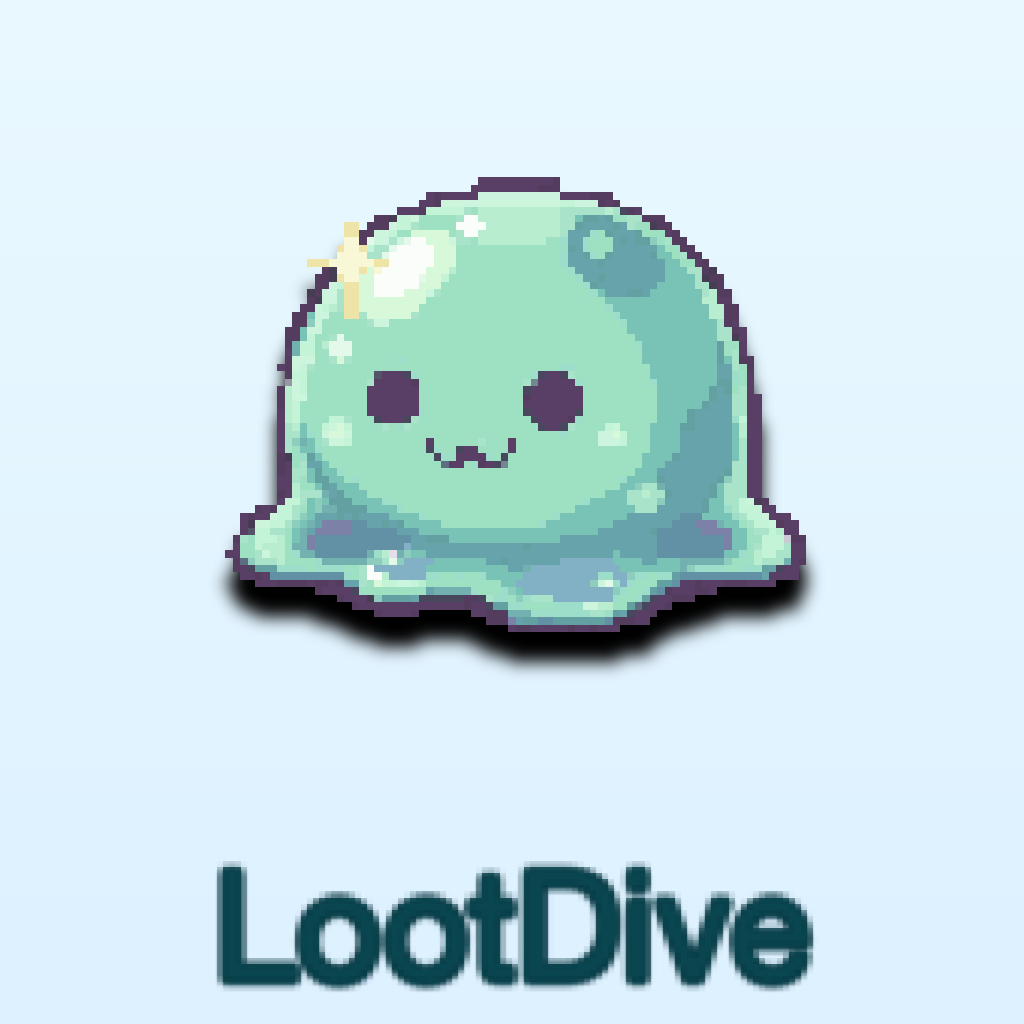
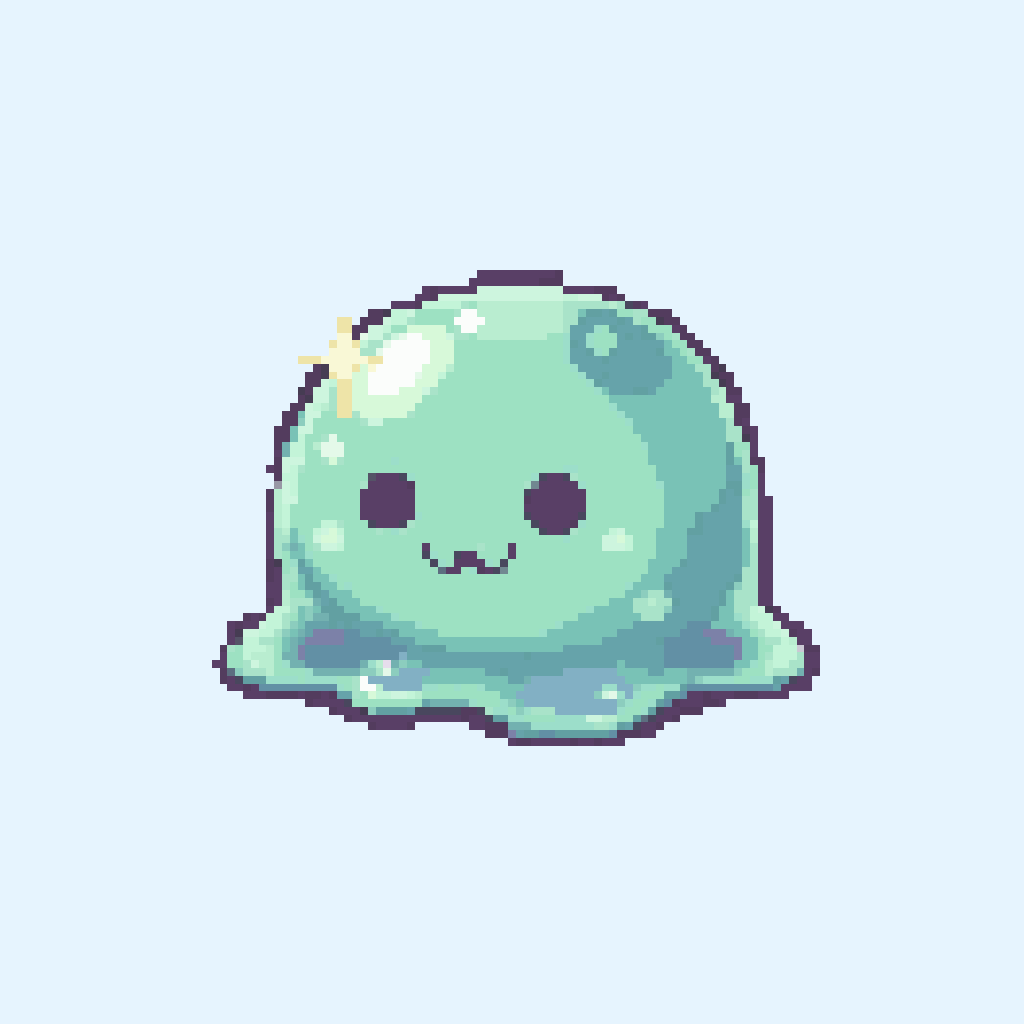
chore: App Storeリリース用クリエイティブを追加
- app-store-metadata.md: メタデータ一覧（アプリ名、説明文、キーワード等）
- privacy-policy-ja.md: プライバシーポリシー（日本語）
- privacy-policy-en.md: プライバシーポリシー（英語）
- アプリアイコンをテキストなしのスライムのみに変更

Changed region(s): [[0.1875, 0.1562, 0.8125, 0.75], [0.1875, 0.8438, 0.8125, 0.9688]]

diff --git a/app-store-metadata.md b/app-store-metadata.md
@@ -1,0 +1,108 @@
+# App Store メタデータ
+
+## 基本情報
+
+| 項目 | 内容 |
+|------|------|
+| アプリ名 | LootDive |
+| サブタイトル | 自動戦闘xビルド構築 |
+| プライマリカテゴリ | Games |
+| セカンダリカテゴリ | Role Playing |
+| 年齢レーティング | 9+ |
+
+---
+
+## 説明文（日本語）
+
+```
+■ ダンジョンに潜って、レア装備を集めろ！
+
+LootDiveは、戦闘は完全オート、あなたの役割は「準備」と「判断」だけのハクスラRPG。忙しい毎日でもサクサク遊べます。
+
+■ ゲームの特徴
+
+【完全自動戦闘】
+バトルはすべてオート！あなたは装備を整え、ダンジョンを選ぶだけ。あとは見守るだけでOK。
+
+【17種以上のダンジョン】
+草原から始まり、魔王城、竜の巣穴、終焉の地まで。20以上の個性豊かなダンジョンを攻略しよう。
+
+【ハクスラ要素満載】
+・ランダムMOD付き装備：同じアイテムでも性能が異なる！
+・ユニーク装備：ボス撃破で手に入る特別なアイテム
+・パッシブスキルツリー：自分だけのビルドを構築
+
+【ボス戦】
+各ダンジョンの最深部には強力なボスが待ち受ける。ゴブリンキング、ヴァンパイア、魔王、そして終焉の王…倒せるか？
+
+【エンドコンテンツ】
+・Uberボス：通常ボスの強化版。最高峰の装備をドロップ
+・異次元ラッシュ：200階の無限ダンジョン。どこまで登れる？
+
+■ こんな人におすすめ
+
+・忙しくてもRPGを楽しみたい
+・装備収集が好き
+・ビルドを考えるのが好き
+・オートバトルで効率よく遊びたい
+
+■ お問い合わせ
+
+ゲームに関するご意見・ご要望はアプリ内の設定からお送りください。
+```
+
+---
+
+## キーワード
+
+```
+ハクスラ,放置,RPG,自動戦闘,ダンジョン,装備,アイドル,レア,ボス,無料,オフライン,育成,冒険,ファンタジー
+```
+
+---
+
+## プロモーションテキスト
+
+```
+ダンジョンに潜り、レア装備を集めよう！完全オートバトルで忙しいあなたも手軽に冒険。17種以上のダンジョン、強力なボス、ランダムMOD付き装備であなただけの最強ビルドを構築せよ。
+```
+
+---
+
+## スクリーンショット構成（6枚）
+
+| 順番 | 画面 | キャッチコピー |
+|------|------|----------------|
+| 1 | 戦闘画面（ボス戦） | 見守るだけ。完全オートバトル |
+| 2 | ダンジョン選択画面 | 17種以上のダンジョン |
+| 3 | インベントリ/装備画面 | レア装備を集めて強化 |
+| 4 | スキルツリー画面 | 自分だけのビルドを構築 |
+| 5 | 戦闘画面（通常） | サクサク進むオート探索 |
+| 6 | ホーム画面 | 装備を整えて出発 |
+
+---
+
+## 必要なスクリーンショットサイズ
+
+| デバイス | サイズ | 必須 |
+|----------|--------|------|
+| iPhone 6.7インチ | 1290 x 2796 px | 必須 |
+| iPhone 6.5インチ | 1284 x 2778 px | 必須 |
+
+---
+
+## 年齢レーティング回答
+
+| 質問 | 該当 |
+|------|------|
+| 暴力的なコンテンツ | まれ/軽度 |
+| 性的/きわどいコンテンツ | なし |
+| 成人向けテーマ | なし |
+| アルコール/タバコ/薬物 | なし |
+| シミュレーション・ギャンブル | なし |
+| ホラー/恐怖テーマ | まれ/軽度 |
+| 下品なユーモア | なし |
+| 医療情報 | なし |
+| ユーザー生成コンテンツ | なし |
+
+→ 予想レーティング: **9+**

diff --git a/privacy-policy-ja.md b/privacy-policy-ja.md
@@ -1,0 +1,55 @@
+# プライバシーポリシー
+
+最終更新日：2026年2月7日
+
+本プライバシーポリシーは、LootDive（以下「本アプリ」）における個人情報の取り扱いについて説明します。
+
+## 1. 収集する情報
+
+### 自動的に収集される情報
+- **ゲーム利用データ**: ダンジョン進行状況、プレイヤーレベル等（Firebase Analytics）
+- **エラー情報**: アプリのクラッシュログ（Firebase Crashlytics）
+- **広告ID**: 広告配信のためのデバイス識別子（Google AdMob）
+
+### ユーザーが提供する情報
+- **購入情報**: アプリ内課金に関する情報（RevenueCat経由でAppleが処理）
+
+### 収集しない情報
+- 氏名、メールアドレス、電話番号等の個人を特定する情報
+- ゲームデータ（端末内にのみ保存され、サーバーには送信されません）
+
+## 2. 情報の利用目的
+
+収集した情報は以下の目的で利用します：
+- アプリの改善・最適化
+- 不具合の検出・修正
+- 広告の配信
+- 課金処理の実行
+
+## 3. 第三者サービス
+
+本アプリは以下の第三者サービスを利用しています：
+
+- **Firebase（Google LLC）**: アナリティクス、クラッシュレポート
+  - [Googleプライバシーポリシー](https://policies.google.com/privacy)
+- **Google AdMob**: 広告配信
+  - [AdMobポリシー](https://support.google.com/admob/answer/6128543)
+- **RevenueCat**: 課金処理
+  - [RevenueCatプライバシーポリシー](https://www.revenuecat.com/privacy)
+
+## 4. データの保持
+
+分析データはサービス改善に必要な期間保持されます。詳細は各サービスのポリシーをご確認ください。
+
+## 5. お子様のプライバシー
+
+本アプリは13歳未満のお子様から意図的に個人情報を収集することはありません。
+
+## 6. お問い合わせ
+
+本ポリシーに関するお問い合わせは、以下までご連絡ください：
+- メール: [your-email@example.com]
+
+## 7. 変更について
+
+本ポリシーは予告なく変更される場合があります。重要な変更がある場合は、アプリ内でお知らせします。

diff --git a/privacy-policy-en.md b/privacy-policy-en.md
@@ -1,0 +1,55 @@
+# Privacy Policy
+
+Last updated: February 7, 2026
+
+This Privacy Policy describes how LootDive ("the App") handles your information.
+
+## 1. Information We Collect
+
+### Automatically Collected Information
+- **Game Usage Data**: Dungeon progress, player level, etc. (Firebase Analytics)
+- **Error Information**: App crash logs (Firebase Crashlytics)
+- **Advertising ID**: Device identifier for ad delivery (Google AdMob)
+
+### Information You Provide
+- **Purchase Information**: In-app purchase data (processed by Apple via RevenueCat)
+
+### Information We Do NOT Collect
+- Personally identifiable information such as name, email, or phone number
+- Game save data (stored locally on your device and never transmitted to servers)
+
+## 2. How We Use Information
+
+We use the collected information to:
+- Improve and optimize the App
+- Detect and fix bugs
+- Deliver advertisements
+- Process in-app purchases
+
+## 3. Third-Party Services
+
+The App uses the following third-party services:
+
+- **Firebase (Google LLC)**: Analytics and crash reporting
+  - [Google Privacy Policy](https://policies.google.com/privacy)
+- **Google AdMob**: Advertising
+  - [AdMob Policy](https://support.google.com/admob/answer/6128543)
+- **RevenueCat**: Payment processing
+  - [RevenueCat Privacy Policy](https://www.revenuecat.com/privacy)
+
+## 4. Data Retention
+
+Analytics data is retained as long as necessary for service improvement. Please refer to each service's policy for details.
+
+## 5. Children's Privacy
+
+The App does not knowingly collect personal information from children under 13.
+
+## 6. Contact Us
+
+For questions about this policy, please contact us at:
+- Email: [your-email@example.com]
+
+## 7. Changes to This Policy
+
+We may update this policy without prior notice. Significant changes will be announced within the App.
